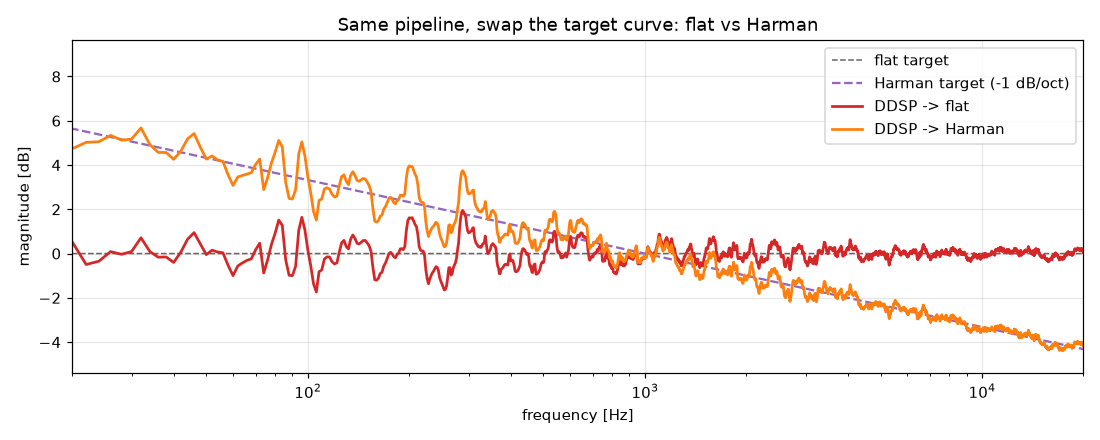
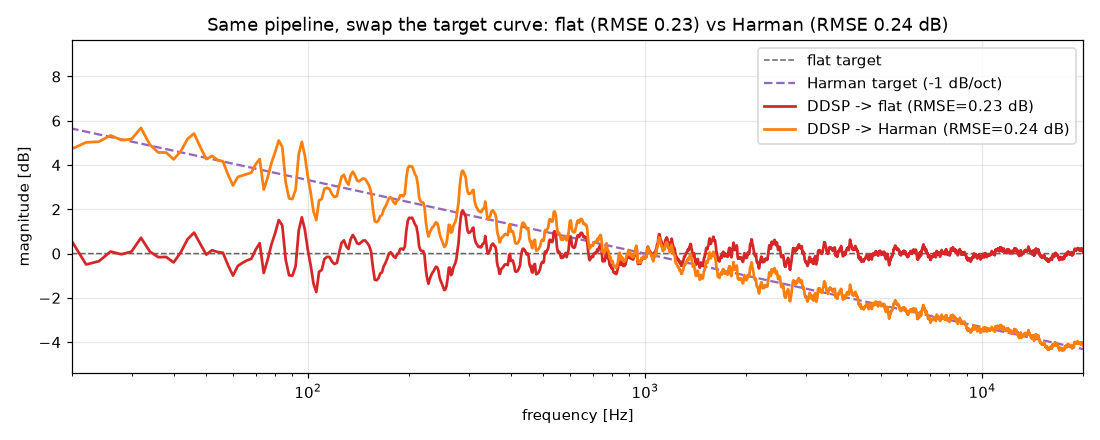
feat: report RMSE-to-target in the Harman section (notebook + README)
Flatness sigma is the wrong scorecard for a deliberately tilted Harman
target (sigma ~1.4 on a correctly Harman-matched response). Surface the
already-tested deviation_rmse_db where it actually diverges from sigma:
DDSP lands within 0.24 dB of either target (flat 0.23, Harman 0.24).

Changed region(s): [[0.1855, 0.0295, 0.8655, 0.1477], [0.68, 0.1773, 0.9891, 0.325], [0.68, 0.325, 0.7418, 0.3545]]

diff --git a/notebooks/_build_notebook.py b/notebooks/_build_notebook.py
@@ -43,7 +43,7 @@ code(
     "from src.synthetic import decaying_noise_rir\n"
     "from src.analysis import frequency_response, fractional_octave_smooth\n"
     "from src.targets import flat_target, harman_target\n"
-    "from src.metrics import flatness_std_db\n"
+    "from src.metrics import flatness_std_db, deviation_rmse_db\n"
     "from src.eq_classic import design_classic_eq, apply_eq_db\n"
     "from src.eq_ddsp import optimize_eq\n"
     "from src.fir import design_fir_correction, fir_response_db\n"
@@ -261,13 +261,23 @@ md(
     "\n"
     "Perfectly flat is not the perceptual ideal. Listening studies show people prefer a slightly\n"
     "downward-sloping **Harman-style in-room curve** (≈ -1 dB/oct tilt). Swapping only the target\n"
-    "curve lets the same pipeline run unchanged — here is DDSP optimized to the Harman target."
+    "curve lets the same pipeline run unchanged — here is DDSP optimized to the Harman target.\n"
+    "\n"
+    "Note the metric switch: a Harman curve is *meant* to slope, so flatness σ would punish the\n"
+    "intended tilt. The honest scorecard here is **RMSE to the target** (mean-aligned) — how close\n"
+    "the correction lands to whatever curve we asked for."
 )
 
 code(
     "harman = harman_target(freqs)\n"
     "ddsp_h_eq = optimize_eq(resp, harman, freqs, sr, n_filters=NF, iters=ITERS)\n"
     "ddsp_h_corr = resp + apply_eq_db(ddsp_h_eq, freqs, sr)\n"
+    "\n"
+    "# RMSE-to-target is the right scorecard here: a Harman curve is meant to be\n"
+    "# tilted, so flatness sigma would wrongly penalise the intended slope. RMSE\n"
+    "# (mean-aligned) measures how well each correction hit its own target.\n"
+    "flat_rmse = deviation_rmse_db(fractional_octave_smooth(freqs, ddsp_corr), np.zeros_like(freqs), freqs)\n"
+    "harman_rmse = deviation_rmse_db(fractional_octave_smooth(freqs, ddsp_h_corr), harman, freqs)\n"
     "\n"
     "# level-align the corrected curves to their targets for display\n"
     "def align(curve, tgt):\n"
@@ -277,11 +287,11 @@ code(
     "plt.semilogx(freqs, np.zeros_like(freqs), 'k--', lw=1, alpha=0.6, label='flat target')\n"
     "plt.semilogx(freqs, harman, color='tab:purple', lw=1.5, ls='--', label='Harman target (-1 dB/oct)')\n"
     "plt.semilogx(freqs, align(fractional_octave_smooth(freqs, ddsp_corr), np.zeros_like(freqs)),\n"
-    "             color='tab:red', lw=1.8, label='DDSP -> flat')\n"
+    "             color='tab:red', lw=1.8, label=f'DDSP -> flat (RMSE={flat_rmse:.2f} dB)')\n"
     "plt.semilogx(freqs, align(fractional_octave_smooth(freqs, ddsp_h_corr), harman),\n"
-    "             color='tab:orange', lw=1.8, label='DDSP -> Harman')\n"
+    "             color='tab:orange', lw=1.8, label=f'DDSP -> Harman (RMSE={harman_rmse:.2f} dB)')\n"
     "plt.legend(); plt.xlim(20, 20000)\n"
-    "plt.title('Same pipeline, swap the target curve: flat vs Harman')\n"
+    "plt.title(f'Same pipeline, swap the target curve: flat (RMSE {flat_rmse:.2f}) vs Harman (RMSE {harman_rmse:.2f} dB)')\n"
     "plt.xlabel('frequency [Hz]'); plt.ylabel('magnitude [dB]')\n"
     "plt.tight_layout(); plt.savefig('../assets/07_targets.png', dpi=110); plt.show()"
 )

diff --git a/README.md b/README.md
@@ -92,6 +92,10 @@ the synthetic ranking does not transfer blindly, which is exactly why measured-d
 - **flat**: flatten the whole band — the reference point that proves the algorithm can truly flatten.
 - **Harman**: a listener-preference curve — reflects that flat is not perceptually ideal; a real-world recommendation.
 
+Swapping the target is where the **secondary RMSE metric earns its place**: a Harman curve is meant to
+slope, so flatness σ would punish the intended tilt (σ ≈ 1.4 on a correctly Harman-matched response).
+RMSE-to-target stays honest — DDSP lands within 0.24 dB of *either* target (flat 0.23, Harman 0.24).
+
 ## Evaluation
 
 | Axis | Metric | Description |